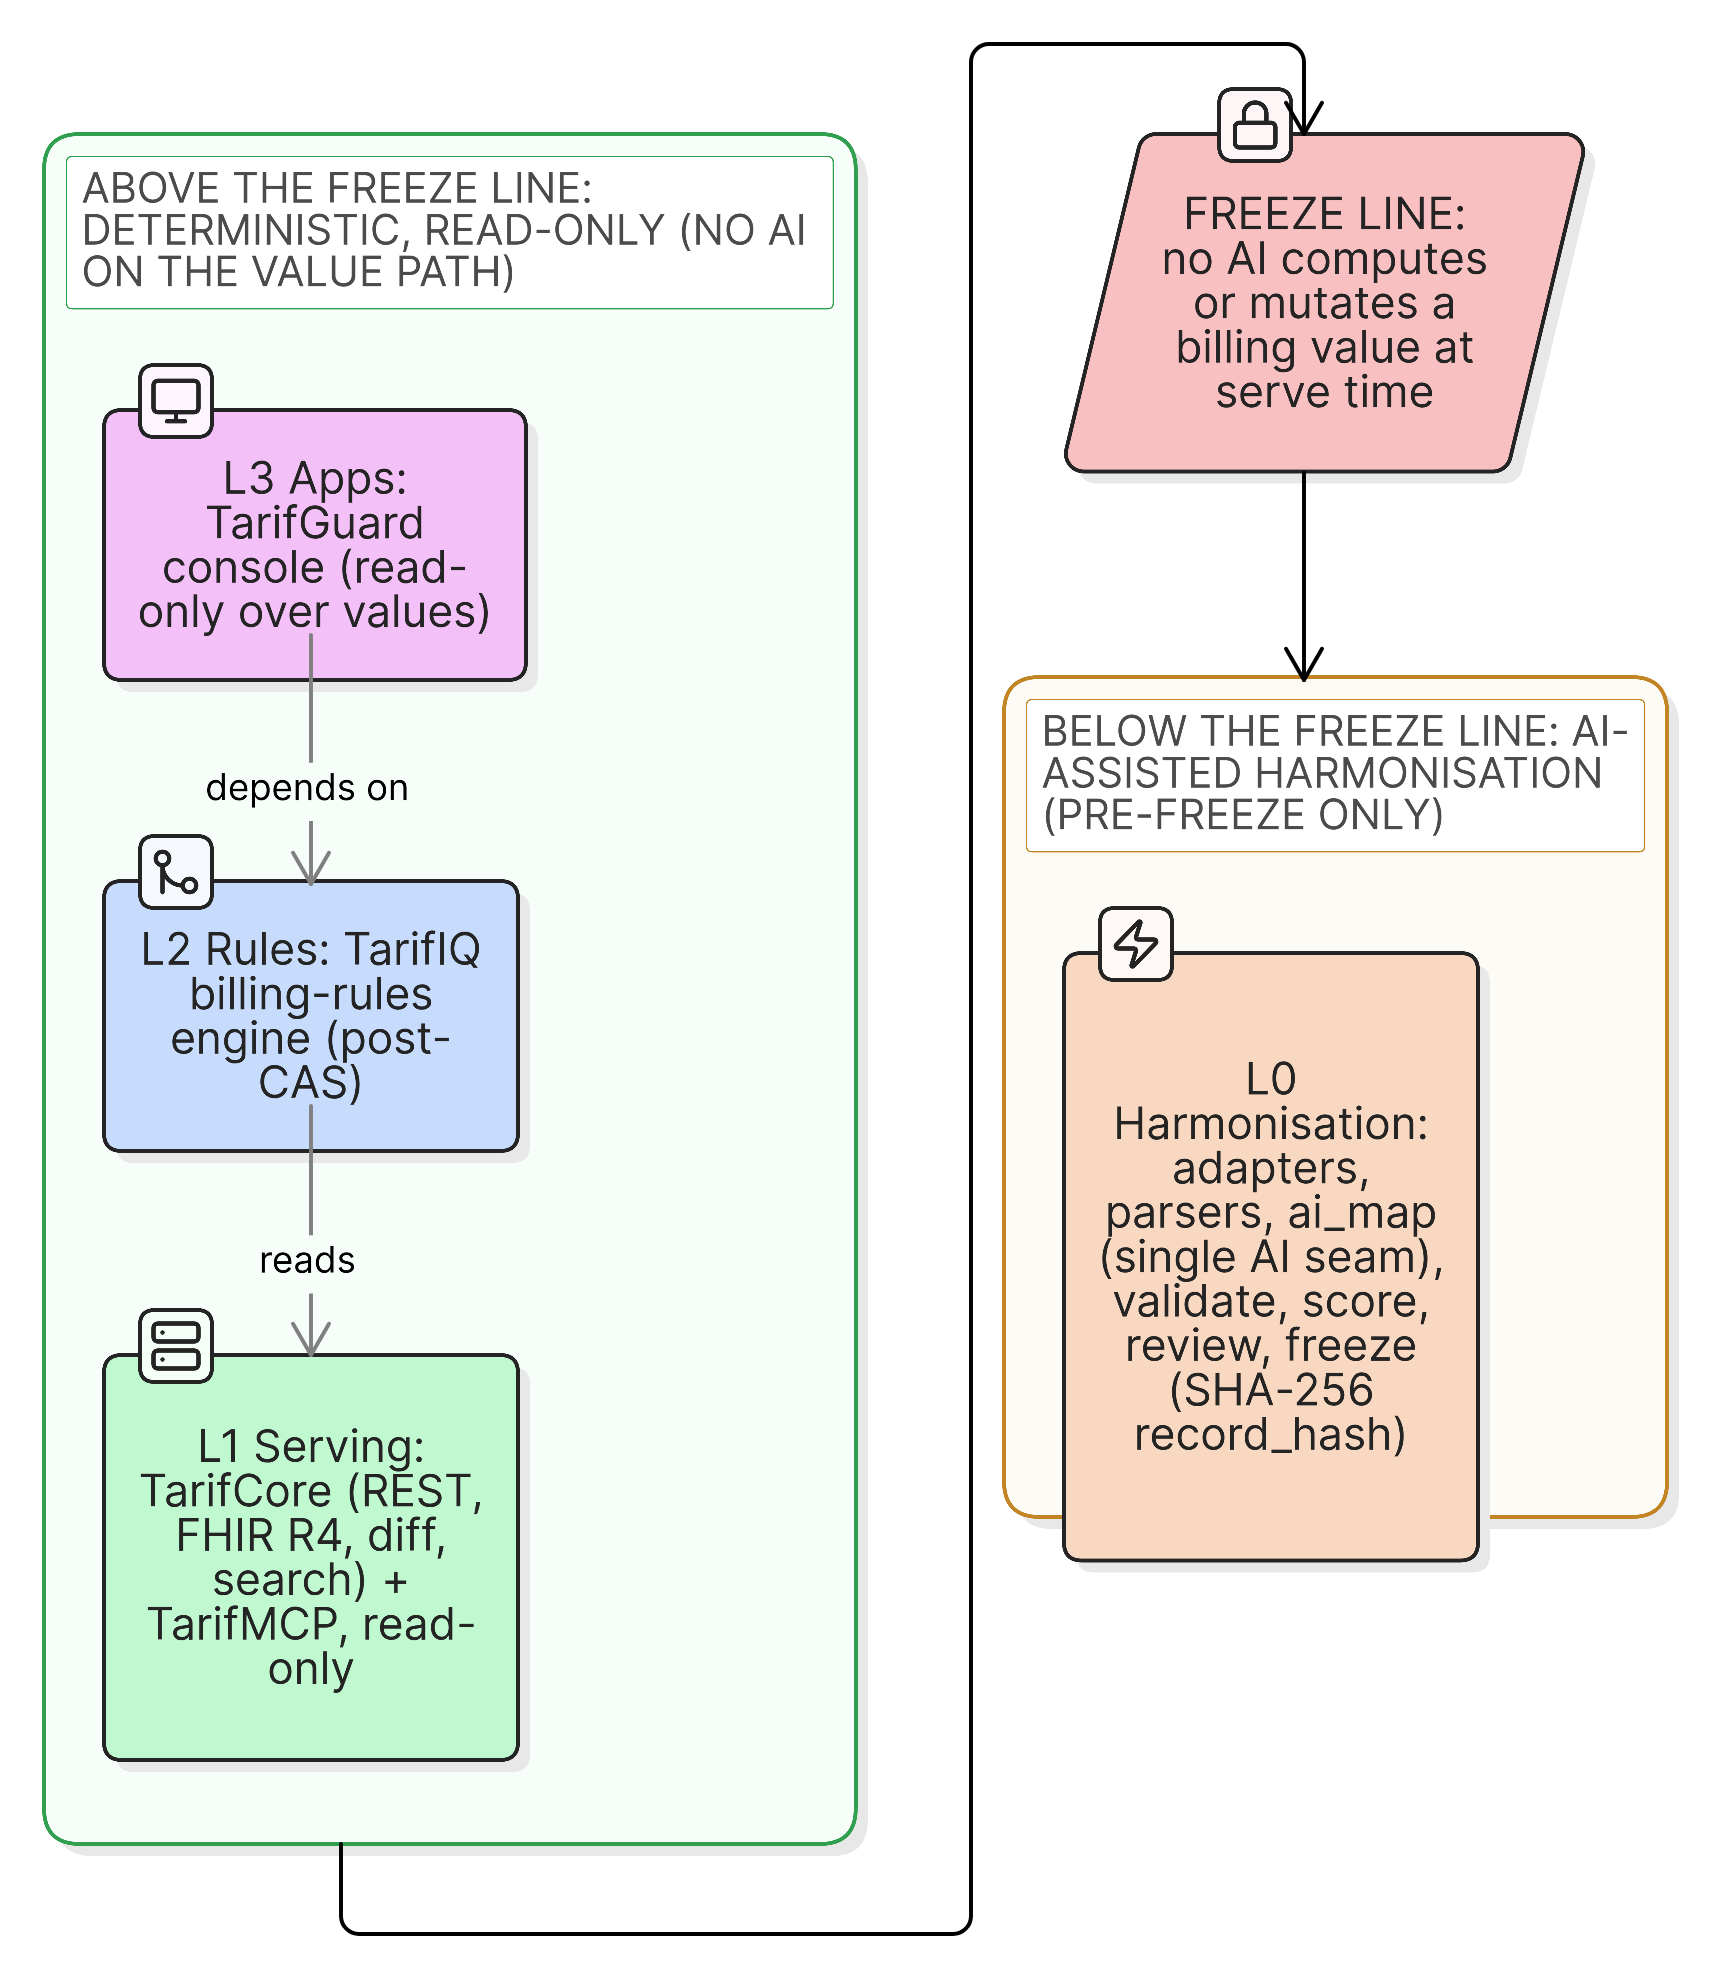
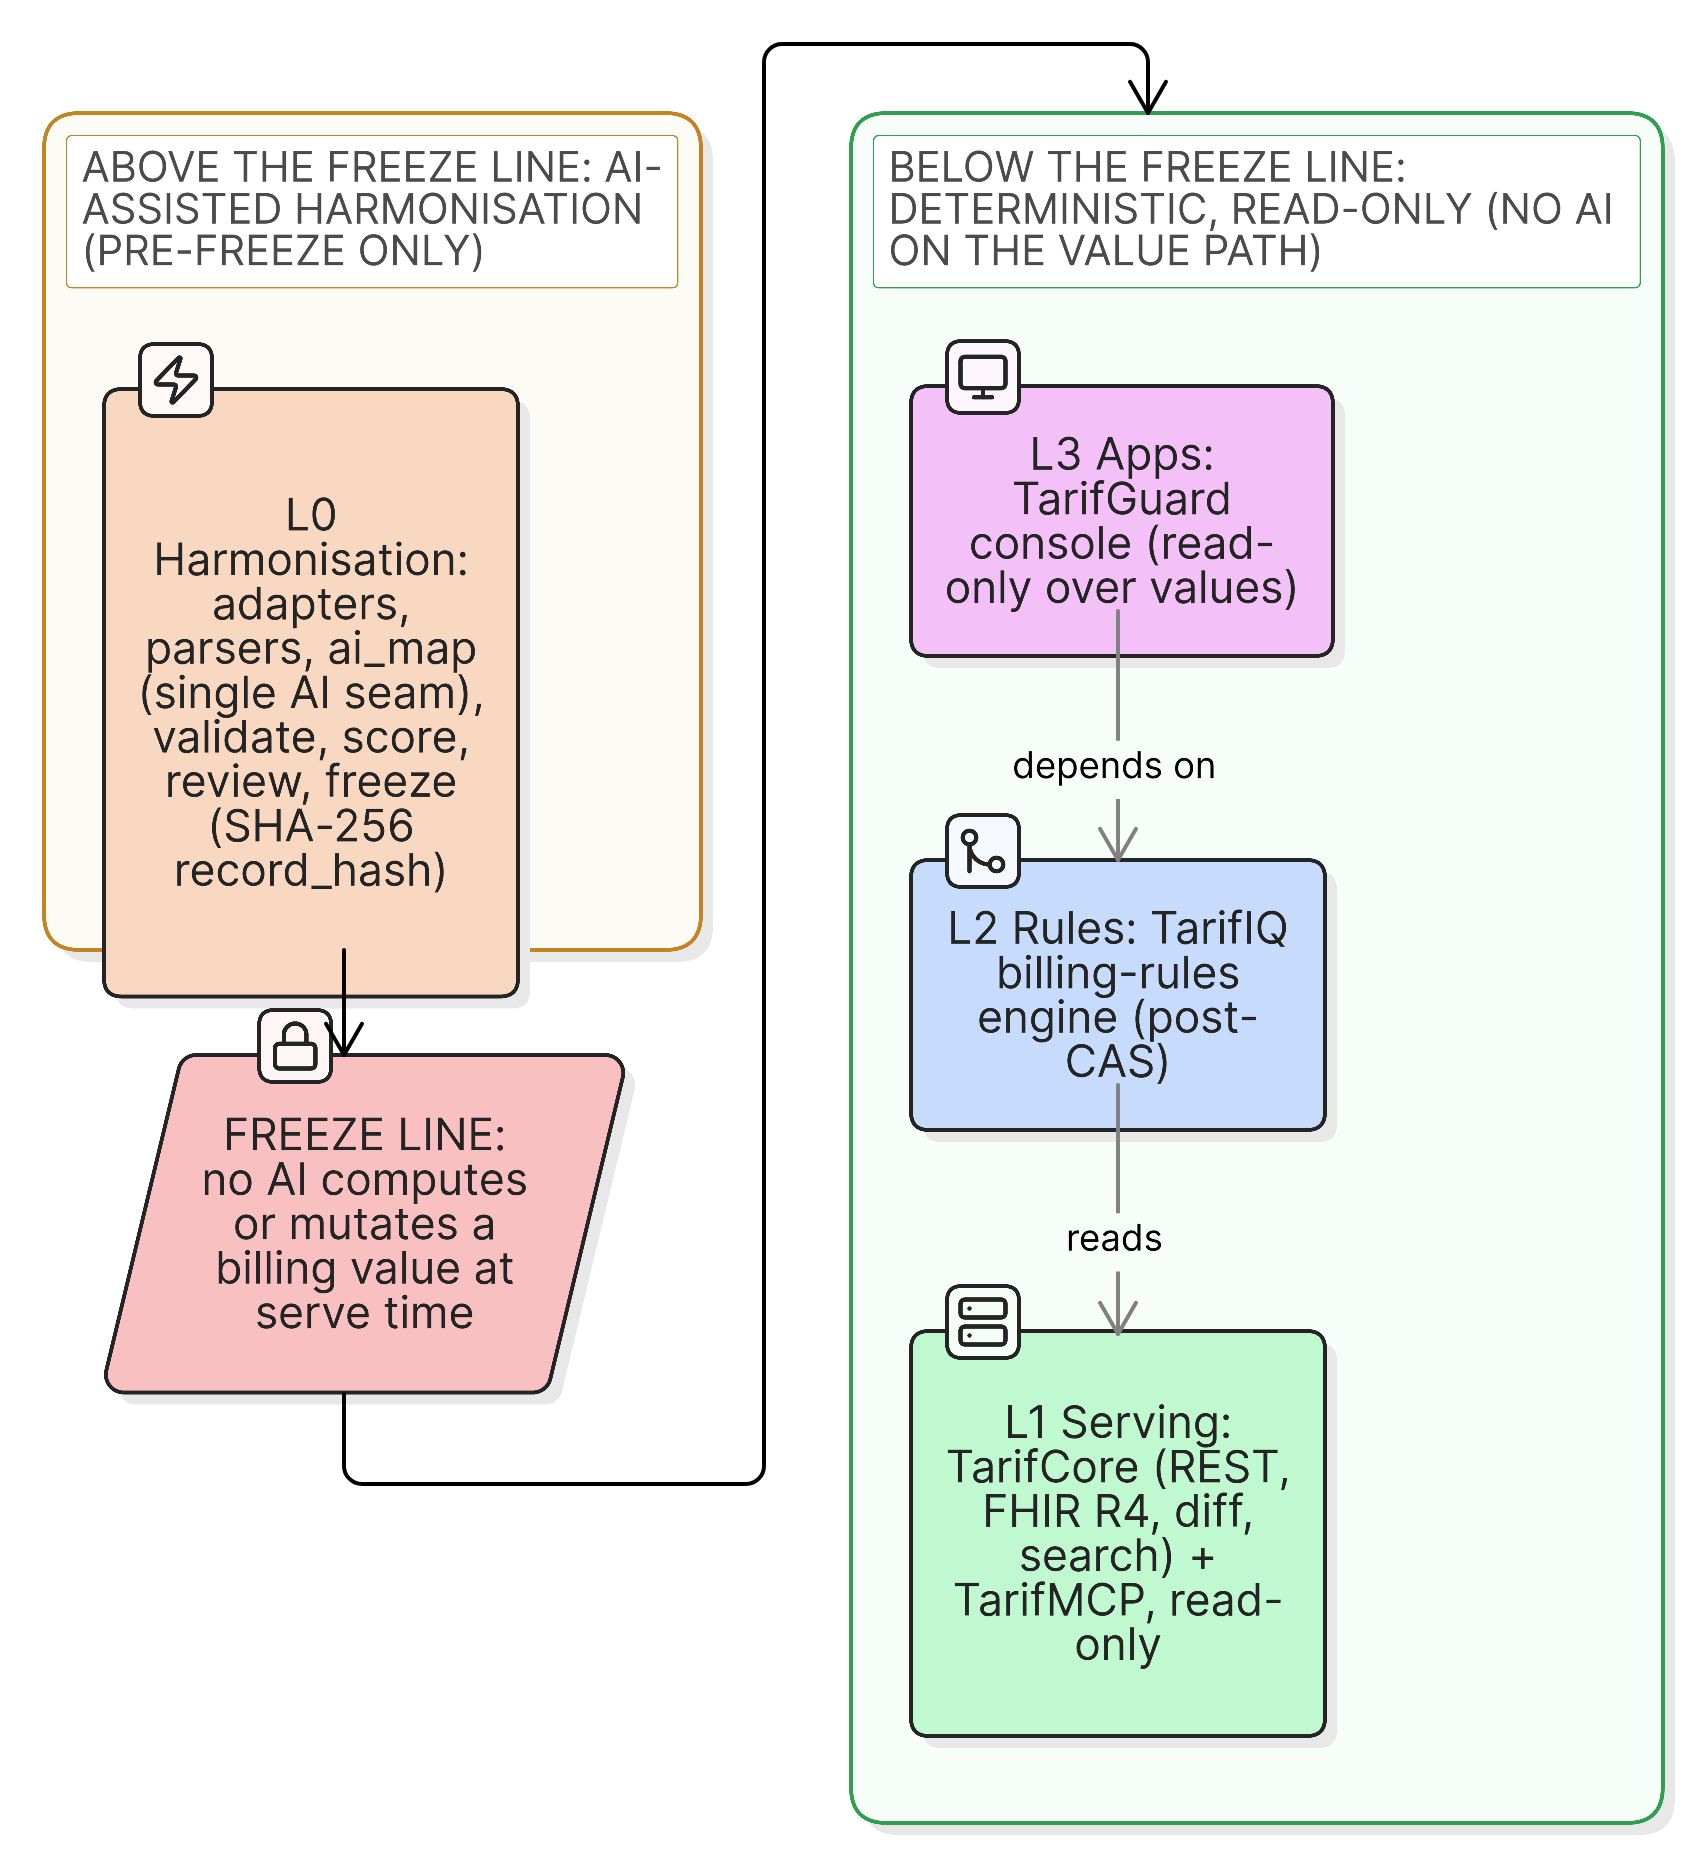
docs(diagrams): flip four-layer-architecture to canonical AI-above orientation; align captions and speaker notes

diff --git a/docs/presentation/index.html b/docs/presentation/index.html
@@ -195,10 +195,10 @@
           </div>
         </div>
         <aside class="notes">
-          [~35s] The architecture is four layers split by one line, the freeze line. Below it, layer
+          [~35s] The architecture is four layers split by one line, the freeze line. Above it, layer
           zero harmonises raw data, and that is the only place AI is allowed to run, before freezing,
           on non-billing fields. At the line, every record is frozen: a SHA-256 hash over its
-          canonical content, updates are new versions, the audit log is append-only. Above the line,
+          canonical content, updates are new versions, the audit log is append-only. Below the line,
           serving is deterministic, read-only. The one rule that defines the whole system: no AI ever
           computes or mutates a billing value at serve time. The freeze line is the trust guarantee.
         </aside>

diff --git a/docs/arc42/03-context-scope.md b/docs/arc42/03-context-scope.md
@@ -10,7 +10,7 @@ inputs are public federal tariff lists, outputs are frozen tariff records.
 
 ![The four-layer architecture and the freeze line](../img/diagrams/four-layer-architecture.png)
 
-> **Figure: The four layers and the freeze line.** L0 harmonisation (AI-assisted, pre-freeze) lies below the freeze line; L1 serving, L2 rules, and L3 apps lie above it. The line is the boundary this context view protects: AI may shape records in L0, but every value L1 serves is frozen and read-only.
+> **Figure: The four layers and the freeze line.** L0 harmonisation (AI-assisted, pre-freeze) lies above the freeze line; L1 serving, L2 rules, and L3 apps lie below it. The line is the boundary this context view protects: AI may shape records in L0, but every value L1 serves is frozen and read-only.
 
 | Communication partner | Interface | Data exchanged | Use cases |
 | --- | --- | --- | --- |

diff --git a/docs/arc42/05-building-block-view.md b/docs/arc42/05-building-block-view.md
@@ -23,7 +23,7 @@ L2 (intelligence: rules, crosswalk reasoning) is post-CAS scope as a *feature*: 
 
 ![The four-layer architecture and the freeze line](../img/diagrams/four-layer-architecture.png)
 
-> **Figure: The four layers and the freeze line.** A freeze-line-aware view of the same containers: the L0 ingestion pipeline below the line, and the L1 serving and MCP read paths, the L2 rules scaffold, and the L3 console above it. No AI runs on the value path above the line.
+> **Figure: The four layers and the freeze line.** A freeze-line-aware view of the same containers: the L0 ingestion pipeline above the line, and the L1 serving and MCP read paths, the L2 rules scaffold, and the L3 console below it. No AI runs on the value path below the line.
 
 ## Level 2: ingestion service components
 

diff --git a/docs/method/ai-se-framework.md b/docs/method/ai-se-framework.md
@@ -31,7 +31,7 @@ second model family in particular is that a defect that one model's blind spots 
 
 ![The four-layer architecture and the freeze line](../img/diagrams/four-layer-architecture.png)
 
-> **Figure: TarifHub's four layers and the freeze line.** L0 harmonisation (AI-assisted, pre-freeze) sits below the line; L1 deterministic serving, L2 rules, and L3 apps sit above it. The single AI seam is confined to L0, and no AI computes or mutates a billing value at serve time.
+> **Figure: TarifHub's four layers and the freeze line.** L0 harmonisation (AI-assisted, pre-freeze) sits above the line; L1 deterministic serving, L2 rules, and L3 apps sit below it. The single AI seam is confined to L0, and no AI computes or mutates a billing value at serve time.
 
 ## 1. Project setup as reproducible context
 